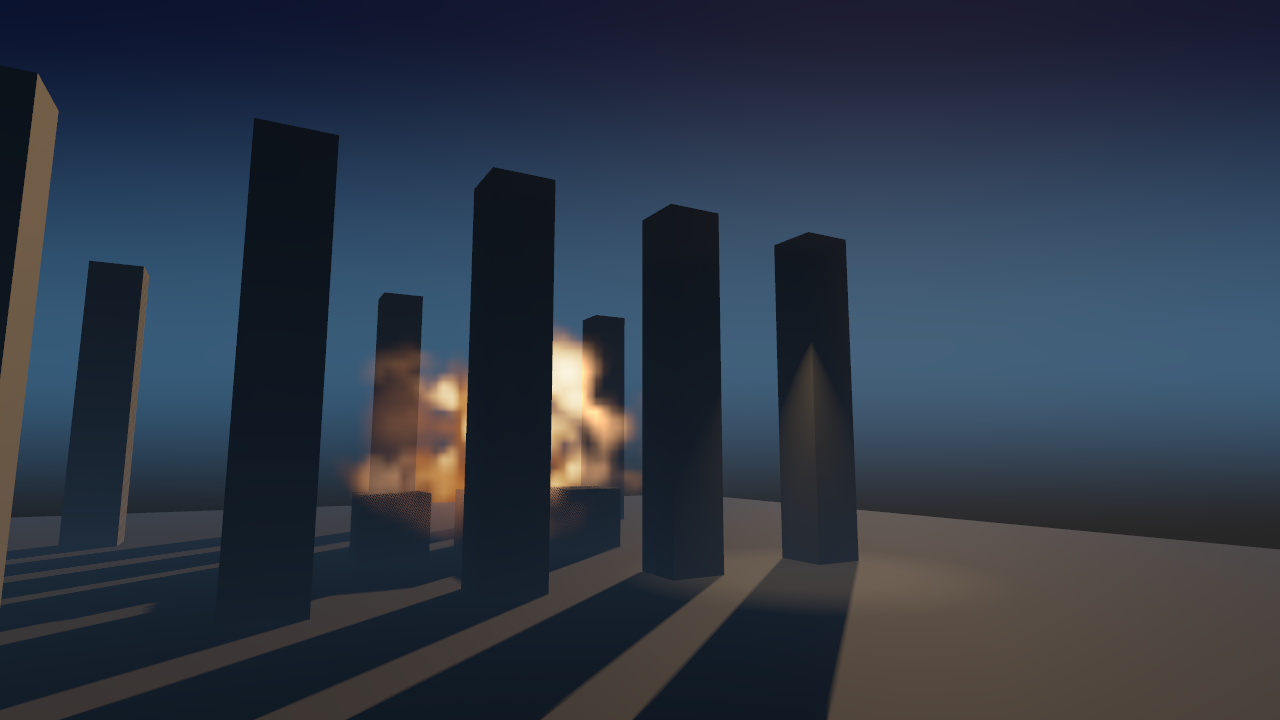
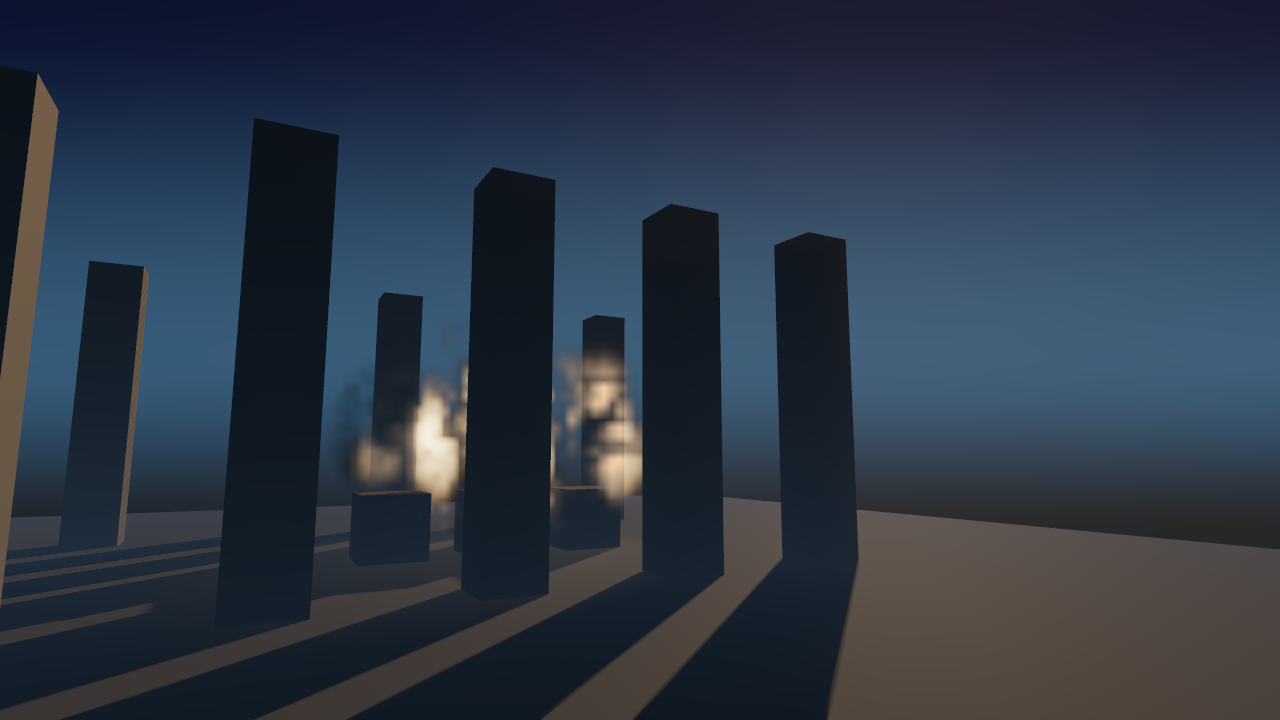
demo_fog: a dense billowing vapour cloud
The cloud read as a glowing ball: its own emission lit it while the lantern
stood far away. Fold four noise octaves into billows with torn edges, drift them
up on a wind, drop the emission and hang the lantern above the cloud, so the sun
and the lantern shape it instead. Its contribution is less bright and more
structured than before. Checked between frames 4 and 90 that the cloud moves,
and captured the screenshot from that run. Recompiled the fog injection kernel.

diff --git a/PLAN.md b/PLAN.md
@@ -815,10 +815,12 @@ Open work, one commit each:
       ray already covers all the fog before the sky and needs no continuation;
       `skyAffect` now blends the fogged sky with the plain one, and defaults to
       1 as in Godot.
-- [ ] `demo_fog`: the cloud around the lantern reads as a glowing ball. Make it
-      a dense billowing vapour, lit by the lantern instead of emitting.
-- [ ] `demo_fog`: confirm the cloud animation over a frame sequence after the
-      sky change, and capture the demonstration screenshot from it.
+- [x] `demo_fog`: the cloud around the lantern read as a glowing ball. It is
+      now a dense billowing vapour with no emission: four folded noise octaves
+      give it round lobes and torn edges, a rising wind drifts them, and the
+      lantern hangs above it so the sun and the lantern light the shape.
+- [x] `demo_fog`: the cloud animation is confirmed between frames 4 and 90, and
+      the demonstration screenshot comes from the verified sequence.
 
 ## Depth buffer
 
